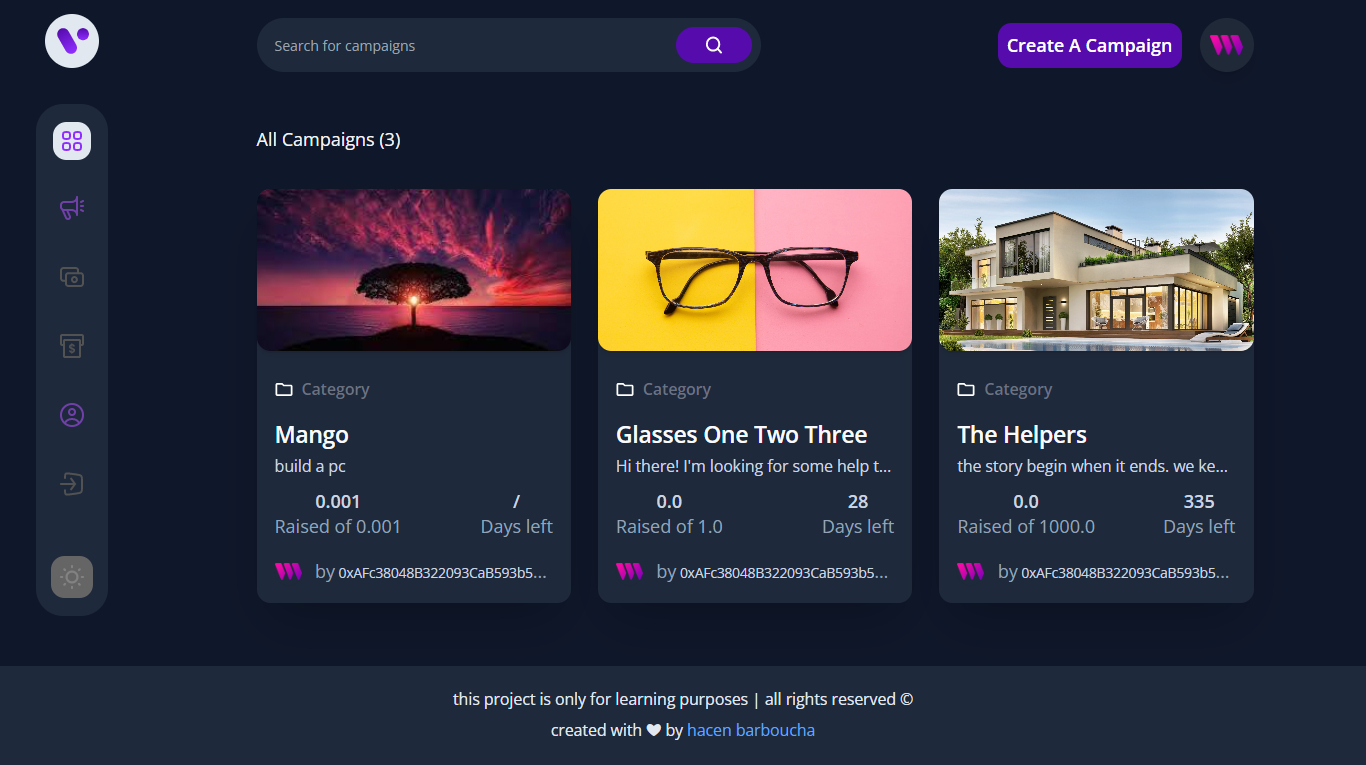
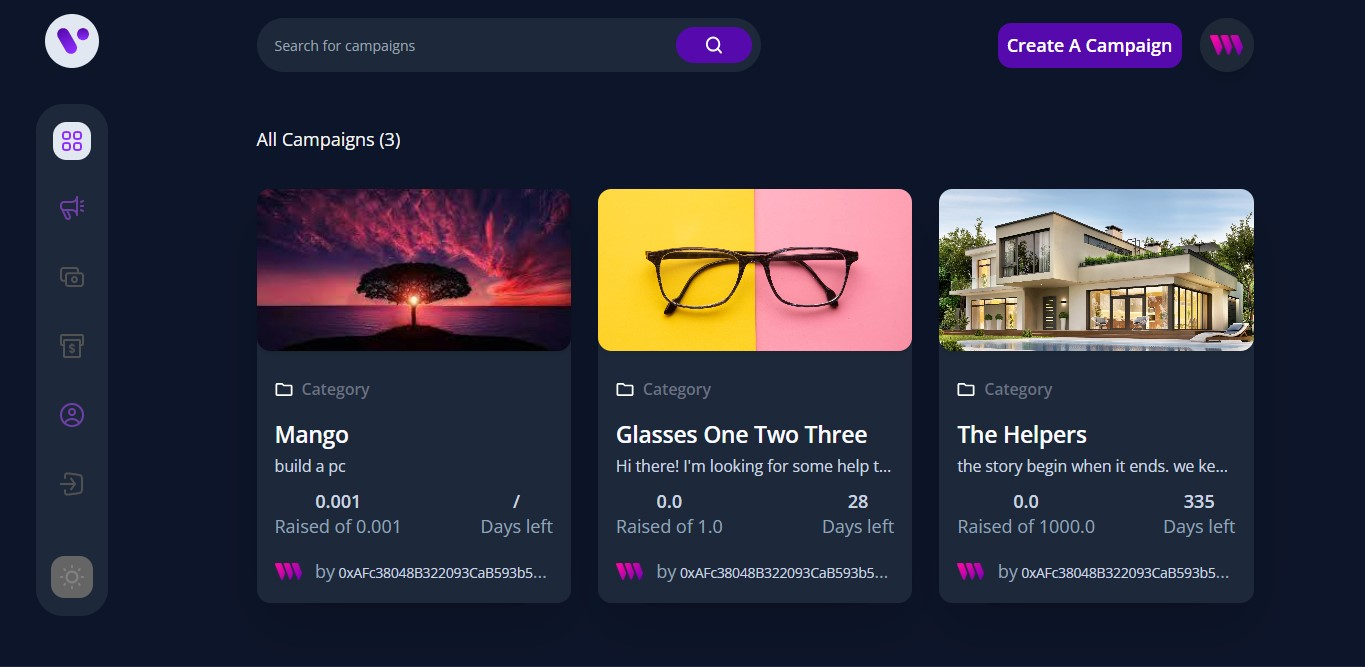
changed readme

diff --git a/README.md b/README.md
@@ -1,8 +1,7 @@
 # Crowdfunding platform
 
-`Join the decentralized revolution with our web3 crowdfunding platform. Invest in innovative projects, securely and transparently, using cryptocurrency.`
+`Developed a blockchain-based crowdfunding platform utilizing smart contracts for secure and transparent fundraising campaigns.`
 
-‼ this project is only for learning purposes
 
 ![img](images_for_preview/1.jpg)
 
@@ -57,4 +56,4 @@ To learn more take a look at the following resources:
 - [TailwindCSS Documentation](https://tailwindcss.com/) - learn TailwindCSS.
 - [Vite Documentation](https://vitejs.dev/guide/) - learn about Vite features.
 
-<p style="text-align: center;font-size:1.25rem">this project is made with ♥ by <a href="https://github.com/priyanshpsalian" target="_blank" style="color:light-blue;text-decoration:none">@hacenbarb</a></p>
+<p style="text-align: center;font-size:1.25rem">this project is made with ♥ by <a href="https://github.com/priyanshpsalian" target="_blank" style="color:light-blue;text-decoration:none">@priyanshpsalian</a></p>
